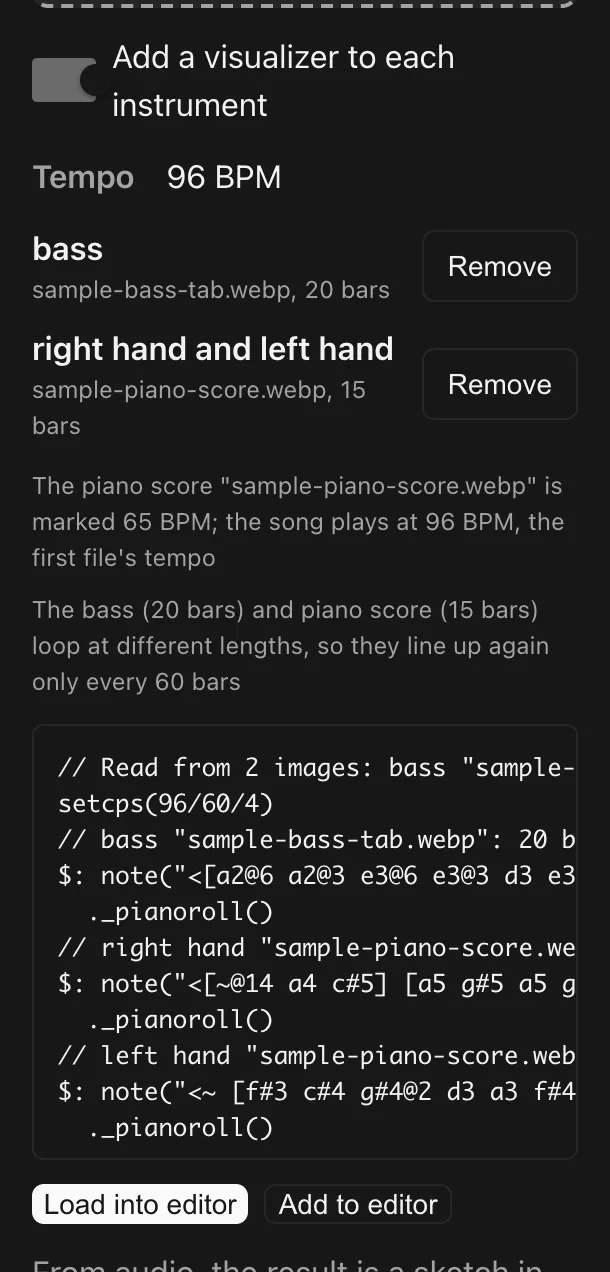
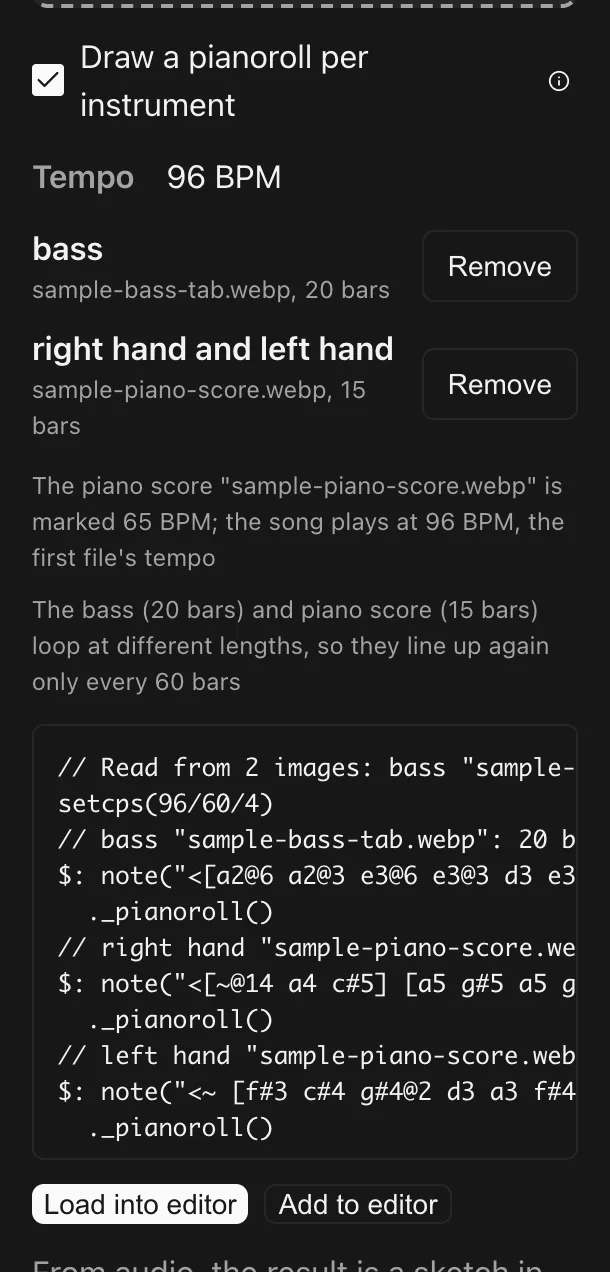
feat: a pianoroll checkbox with an info tooltip in place of the import switch
The import's visualizer option is now a ticked checkbox labelled "Draw a
pianoroll per instrument", with the explanation moved into an info
button's tooltip. The Switch component had no other user and is deleted.
The shared Checkbox drew its tick two pixels wide because it sized the
icon with utility classes components do not get; it now sizes it itself.

Changed region(s): [[0.0311, 0.0307, 0.7475, 0.092], [0.9033, 0.0613, 0.9344, 0.092]]

diff --git a/src/views/Tools/StrudelEditor/tabs/ImportTab.vue b/src/views/Tools/StrudelEditor/tabs/ImportTab.vue
@@ -1,7 +1,9 @@
 <script setup lang="ts">
 import { computed } from 'vue'
 import Button from '@/components/ui/button/Button.vue'
-import { Switch } from '@/components/ui/switch'
+import { Info } from 'lucide-vue-next'
+import { Checkbox } from '@/components/ui/checkbox'
+import IconButton from '@/components/IconButton.vue'
 import DropZone from '@/components/DropZone.vue'
 import { TRANSCRIPTION_ACCEPTED_TYPES, TRANSCRIPTION_STAGE_LABELS } from '../config'
 import { createImportedSong, toSongSources } from '../transcription/generateSongCode'
@@ -63,6 +65,10 @@ const songRows = computed(() => {
   }
 })
 
+const VISUALIZER_HINT =
+  'Ends every tab and score instrument with ._pianoroll(), so each draws its notes under its ' +
+  'line and gets a Visualizer node in the flow view. Off, the code is the plain import.'
+
 const onFilesChosen = (files: FileList): void => {
   emit('files', [...files])
 }
@@ -82,13 +88,17 @@ const onFilesChosen = (files: FileList): void => {
       multiple
       @change="onFilesChosen"
     />
-    <label class="strudel-import__option">
-      <Switch
+    <div class="strudel-import__option">
+      <Checkbox
+        id="strudel-import-visualizer"
         :model-value="addVisualizer"
         @update:model-value="emit('update:addVisualizer', $event)"
       />
-      Add a visualizer to each instrument
-    </label>
+      <label for="strudel-import-visualizer">Draw a pianoroll per instrument</label>
+      <IconButton size="xs" :title="VISUALIZER_HINT">
+        <Info aria-hidden="true" />
+      </IconButton>
+    </div>
 
     <div v-if="status === 'working'" class="strudel-import__progress" role="status">
       <progress
@@ -153,8 +163,8 @@ const onFilesChosen = (files: FileList): void => {
       is a clean engraving of a grand staff; grace notes, ornaments and ties are not read. The tempo
       is read from a marker such as "= 96" above the first staff, and is 120 when there is none.
       Drop several tabs and scores, together or one after another, and each becomes its own
-      instrument on the first file's tempo, with a pianoroll under it while the visualizer switch is
-      on. Load replaces the editor's code; Add appends the instruments to it.
+      instrument on the first file's tempo, with a pianoroll under it while that box is ticked. Load
+      replaces the editor's code; Add appends the instruments to it.
     </p>
   </section>
 </template>

diff --git a/src/views/Tools/StrudelEditor/tabs/ImportTab.test.ts b/src/views/Tools/StrudelEditor/tabs/ImportTab.test.ts
@@ -159,18 +159,32 @@ describe('ImportTab', () => {
     expect(summary).not.toContain('Chords')
   })
 
-  it('offers a visualizer switch that reflects its state and reports a change', async () => {
+  it('offers a pianoroll checkbox that reflects its state and reports a change', async () => {
     // Arrange
     const wrapper = mountTab({ addVisualizer: true })
-    const visualizerSwitch = wrapper.find('button[role="switch"]')
+    const visualizerCheckbox = wrapper.find('button[role="checkbox"]')
 
     // Act
-    await visualizerSwitch.trigger('click')
+    await visualizerCheckbox.trigger('click')
 
     // Assert
-    expect(visualizerSwitch.attributes('aria-checked')).toBe('true')
-    expect(wrapper.text()).toContain('Add a visualizer to each instrument')
+    expect(visualizerCheckbox.attributes('aria-checked')).toBe('true')
+    expect(wrapper.find(`label[for="${visualizerCheckbox.attributes('id')}"]`).text()).toBe(
+      'Draw a pianoroll per instrument'
+    )
     expect(wrapper.emitted('update:addVisualizer')).toEqual([[false]])
+  })
+
+  it('explains the pianoroll in a tooltip rather than in the label', () => {
+    // Arrange
+    const wrapper = mountTab()
+
+    // Act
+    const info = wrapper.find('.strudel-import__option button[title]')
+
+    // Assert
+    expect(info.attributes('title')).toContain('._pianoroll()')
+    expect(info.attributes('title')).toContain('Off, the code is the plain import')
   })
 
   it('lists a piano score next to a tab as one row naming both hands', () => {

diff --git a/src/components/ui/checkbox/Checkbox.vue b/src/components/ui/checkbox/Checkbox.vue
@@ -23,8 +23,8 @@ const emit = defineEmits<{
     :class="cn('checkbox', $props.class)"
     @update:checked="emit('update:modelValue', $event)"
   >
-    <CheckboxIndicator class="flex items-center justify-center">
-      <Check class="h-4 w-4" />
+    <CheckboxIndicator class="checkbox__indicator">
+      <Check class="checkbox__icon" />
     </CheckboxIndicator>
   </CheckboxRoot>
 </template>
@@ -38,6 +38,20 @@ const emit = defineEmits<{
   border: 1px solid var(--color-primary);
   background-color: transparent;
   cursor: pointer;
+  padding: 0;
+}
+
+.checkbox__indicator {
+  display: flex;
+  align-items: center;
+  justify-content: center;
+  width: 100%;
+  height: 100%;
+}
+
+.checkbox__icon {
+  width: 100%;
+  height: 100%;
 }
 
 .checkbox:focus-visible {

diff --git a/.claude/rules/vue-components.md b/.claude/rules/vue-components.md
@@ -12,13 +12,13 @@ paths:
 `src/components/` is not one bucket. It holds five tiers with different rules, and
 "reuse what is in `src/components/`" means finding the right tier before writing anything.
 
-| Tier                | Holds                                                                                                                                                                                             | Reach for it when                                                                                    |
-| ------------------- | ------------------------------------------------------------------------------------------------------------------------------------------------------------------------------------------------- | ---------------------------------------------------------------------------------------------------- |
-| `ui/`               | design-system primitives: `Button`, `Input`, `Select`, `Checkbox`, `Switch`, `Slider`, `Tabs`, `Toggle`, `Accordion`, `Sheet`, `ColorPicker`, `CoordinateInput`, `ButtonSelector`, `BezierPicker` | you need any interactive control in app chrome — panels, tools, editors, forms                       |
-| `LobbyUI/`          | the `LobbyUI*` overlay kit                                                                                                                                                                        | the UI sits over a game scene: HUDs, dialogs, countdowns, editor palettes                            |
-| `panels/`           | the panel system itself: `GenericPanel`, `ConfigPanel`, `ElementsPanel`, `TimelinePanel`, `PanelContainer`                                                                                        | never directly from a view — register content with `registerViewConfig` and let the panels render it |
-| `<Feature>/`        | self-contained features with co-located `use*.ts`: `AvatarEditor/`, `CanvasEditor/`, `Chat/`, `ControlsMapper/`, `DrawingToolbar/`                                                                | a view needs a whole interactive surface rather than one control                                     |
-| `*.vue` at the root | shared components used across unrelated views (below)                                                                                                                                             | the concern already exists — never make a second copy for your game                                  |
+| Tier                | Holds                                                                                                                                                                                   | Reach for it when                                                                                    |
+| ------------------- | --------------------------------------------------------------------------------------------------------------------------------------------------------------------------------------- | ---------------------------------------------------------------------------------------------------- |
+| `ui/`               | design-system primitives: `Button`, `Input`, `Select`, `Checkbox`, `Slider`, `Tabs`, `Toggle`, `Accordion`, `Sheet`, `ColorPicker`, `CoordinateInput`, `ButtonSelector`, `BezierPicker` | you need any interactive control in app chrome — panels, tools, editors, forms                       |
+| `LobbyUI/`          | the `LobbyUI*` overlay kit                                                                                                                                                              | the UI sits over a game scene: HUDs, dialogs, countdowns, editor palettes                            |
+| `panels/`           | the panel system itself: `GenericPanel`, `ConfigPanel`, `ElementsPanel`, `TimelinePanel`, `PanelContainer`                                                                              | never directly from a view — register content with `registerViewConfig` and let the panels render it |
+| `<Feature>/`        | self-contained features with co-located `use*.ts`: `AvatarEditor/`, `CanvasEditor/`, `Chat/`, `ControlsMapper/`, `DrawingToolbar/`                                                      | a view needs a whole interactive surface rather than one control                                     |
+| `*.vue` at the root | shared components used across unrelated views (below)                                                                                                                                   | the concern already exists — never make a second copy for your game                                  |
 
 ### The shared root components
 
@@ -59,13 +59,13 @@ Only a concern that is genuinely shared by unrelated views earns a new root comp
 - Vue SFCs with `<script setup lang="ts">`. Never plain JavaScript.
 - **Never hand-roll a control that `src/components/ui/` already provides.** A raw `<button>`
   or `<input>` in a view or component is a bug: use `Button` and `Input`, and likewise
-  `Select`, `Checkbox`, `Switch`, `Slider`, `Accordion`, `Tabs`, `Toggle`, `ColorPicker`,
+  `Select`, `Checkbox`, `Slider`, `Accordion`, `Tabs`, `Toggle`, `ColorPicker`,
   `CoordinateInput`, `ButtonSelector` and `Sheet`. They carry the focus, disabled and
   theming behaviour that a bare element does not, so a hand-written one drifts from the rest
   of the app and has to be restyled on every token change. List `src/components/ui/` before
   writing markup for anything interactive: the barrel is incomplete, so `index.ts` is not
-  proof a control is missing. `BezierPicker`, `Switch`, `Tabs` and `Toggle` import from their
-  own folder (`@/components/ui/switch`), and `ButtonSelector`, which has no `index.ts`,
+  proof a control is missing. `BezierPicker`, `Tabs` and `Toggle` import from their
+  own folder (`@/components/ui/tabs`), and `ButtonSelector`, which has no `index.ts`,
   imports the file directly (`@/components/ui/button-selector/ButtonSelector.vue`).
 
   Raw elements are acceptable only for genuinely structural or non-interactive markup

diff --git a/documentation/docs/guides/strudel-editor.md b/documentation/docs/guides/strudel-editor.md
@@ -447,7 +447,7 @@ tab lists the files in the order they arrived, named bass, guitar, then bass 2 f
 or right hand and left hand for a score, each with a **Remove** button. An audio or MIDI file still
 stands alone and replaces the list.
 
-![The import tab holding a bass tab and a piano score: the visualizer switch on, one tempo, a row per file with a Remove button, the tempo and loop warnings, the code with a labelled block and a pianoroll for each instrument, and the Load into editor and Add to editor buttons](/img/strudel-editor/import-tab-instruments.webp)
+![The import tab holding a bass tab and a piano score: the pianoroll box ticked, one tempo, a row per file with a Remove button, the tempo and loop warnings, the code with a labelled block and a pianoroll for each instrument, and the Load into editor and Add to editor buttons](/img/strudel-editor/import-tab-instruments.webp)
 
 The song plays at the first file's tempo, with one bar per cycle in the first file's metre. Each
 instrument is its own `$:` block, so Strudel plays them together, and the flow view shows a Notes
@@ -466,13 +466,14 @@ first, because Strudel stops playing it as soon as any labelled block appears.
 
 ### A pianoroll under each instrument
 
-The **Add a visualizer to each instrument** switch above the list is on by default. While it is
-on, every instrument block a tab or score import writes ends with `._pianoroll()` on its own line,
-so each one draws its notes under its code as it plays, and the flow view gains a Visualizer node
-on each instrument. A block that only rests stays `silence`, with nothing to draw. Switched off,
-the code is exactly what the import wrote before, and one file on its own writes exactly its
-single import code either way. The audio and MIDI import is left alone: it writes one `stack(...)`
-of drums, bass and chords, where a pianoroll would draw the drums too.
+The **Draw a pianoroll per instrument** box above the list is ticked by default, and its info
+button explains it in a tooltip. While it is ticked, every instrument block a tab or score import
+writes ends with `._pianoroll()` on its own line, so each one draws its notes under its code as it
+plays, and the flow view gains a Visualizer node on each instrument. A block that only rests stays
+`silence`, with nothing to draw. Unticked, the code is exactly what the import wrote before, and
+one file on its own writes exactly its single import code either way. The audio and MIDI import is
+left alone: it writes one `stack(...)` of drums, bass and chords, where a pianoroll would draw the
+drums too.
 
 ## MIDI devices
 

diff --git a/.claude/rules/threejs-views.md b/.claude/rules/threejs-views.md
@@ -47,7 +47,7 @@ exception is content that is part of the game itself, such as a score HUD.
 
 - Expose runtime settings through `registerViewConfig`, not `<Teleport>` into panel slots.
 - Use `ButtonSelector` for multi-option button groups. If a needed input type is not covered
-  by the existing components (`Slider`, `Switch`, `Select`, `ColorPicker`, `CoordinateInput`,
+  by the existing components (`Slider`, `Checkbox`, `Select`, `ColorPicker`, `CoordinateInput`,
   `ButtonSelector`), request a new one and describe its requirements — never build an ad-hoc
   widget in a view template.
 - At most one level of Accordion; sub-groups inside `AccordionContent` are plain labelled
